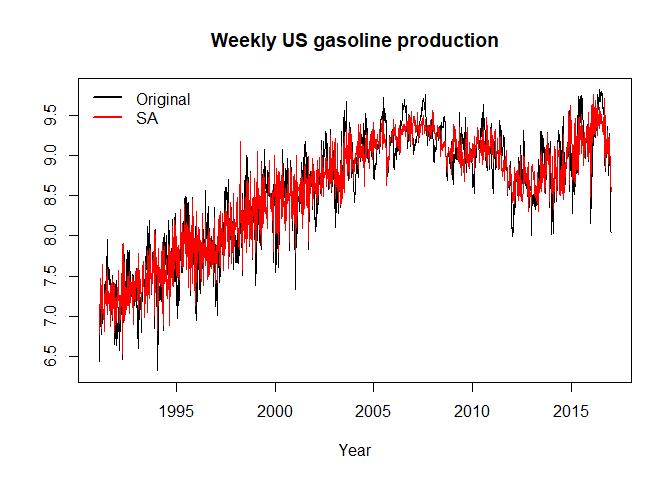
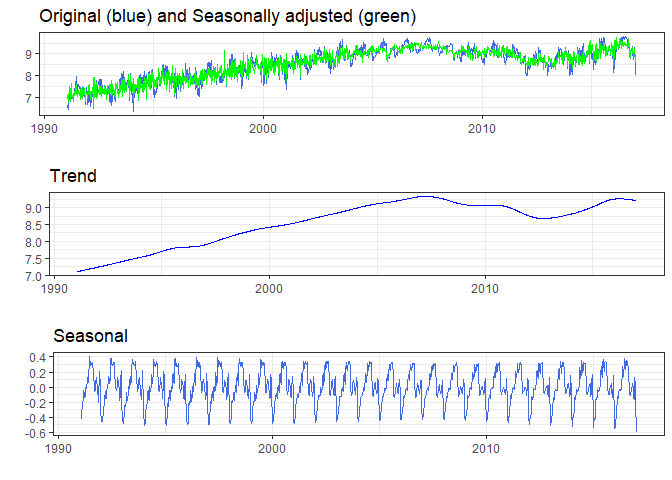
readme amendment

diff --git a/README.md b/README.md
@@ -130,7 +130,9 @@ library(boiwsa)
 ```
 
 Next, load your time series data into a data frame object. Here is an
-example that is based on the `gasoline` data from the `fpp2` package:
+example that is based on the `gasoline` data from the US Energy
+Information Administration that we copied from the from the `fpp2`
+package:
 
 ``` r
 data("gasoline.data")
@@ -168,15 +170,7 @@ addition, the estimated seasonal factors are stored as `sf`.
 You can then plot the adjusted data to visualize the seasonal pattern:
 
 ``` r
-plot(gasoline.data$date,gasoline.data$y,type="l",xlab="Year",ylab=" ", main="Weekly US gasoline production")
-lines(gasoline.data$date,res$sa,col="red")
-legend(
-  "topleft",
-  legend = c("Original", "SA"),
-  lwd = c(2,2),
-  col = c("black", "red"),
-  bty = "n"
-)
+plot(res)
 ```
 
 <img src="man/figures/README-unnamed-chunk-5-1.png" width="100%" />
